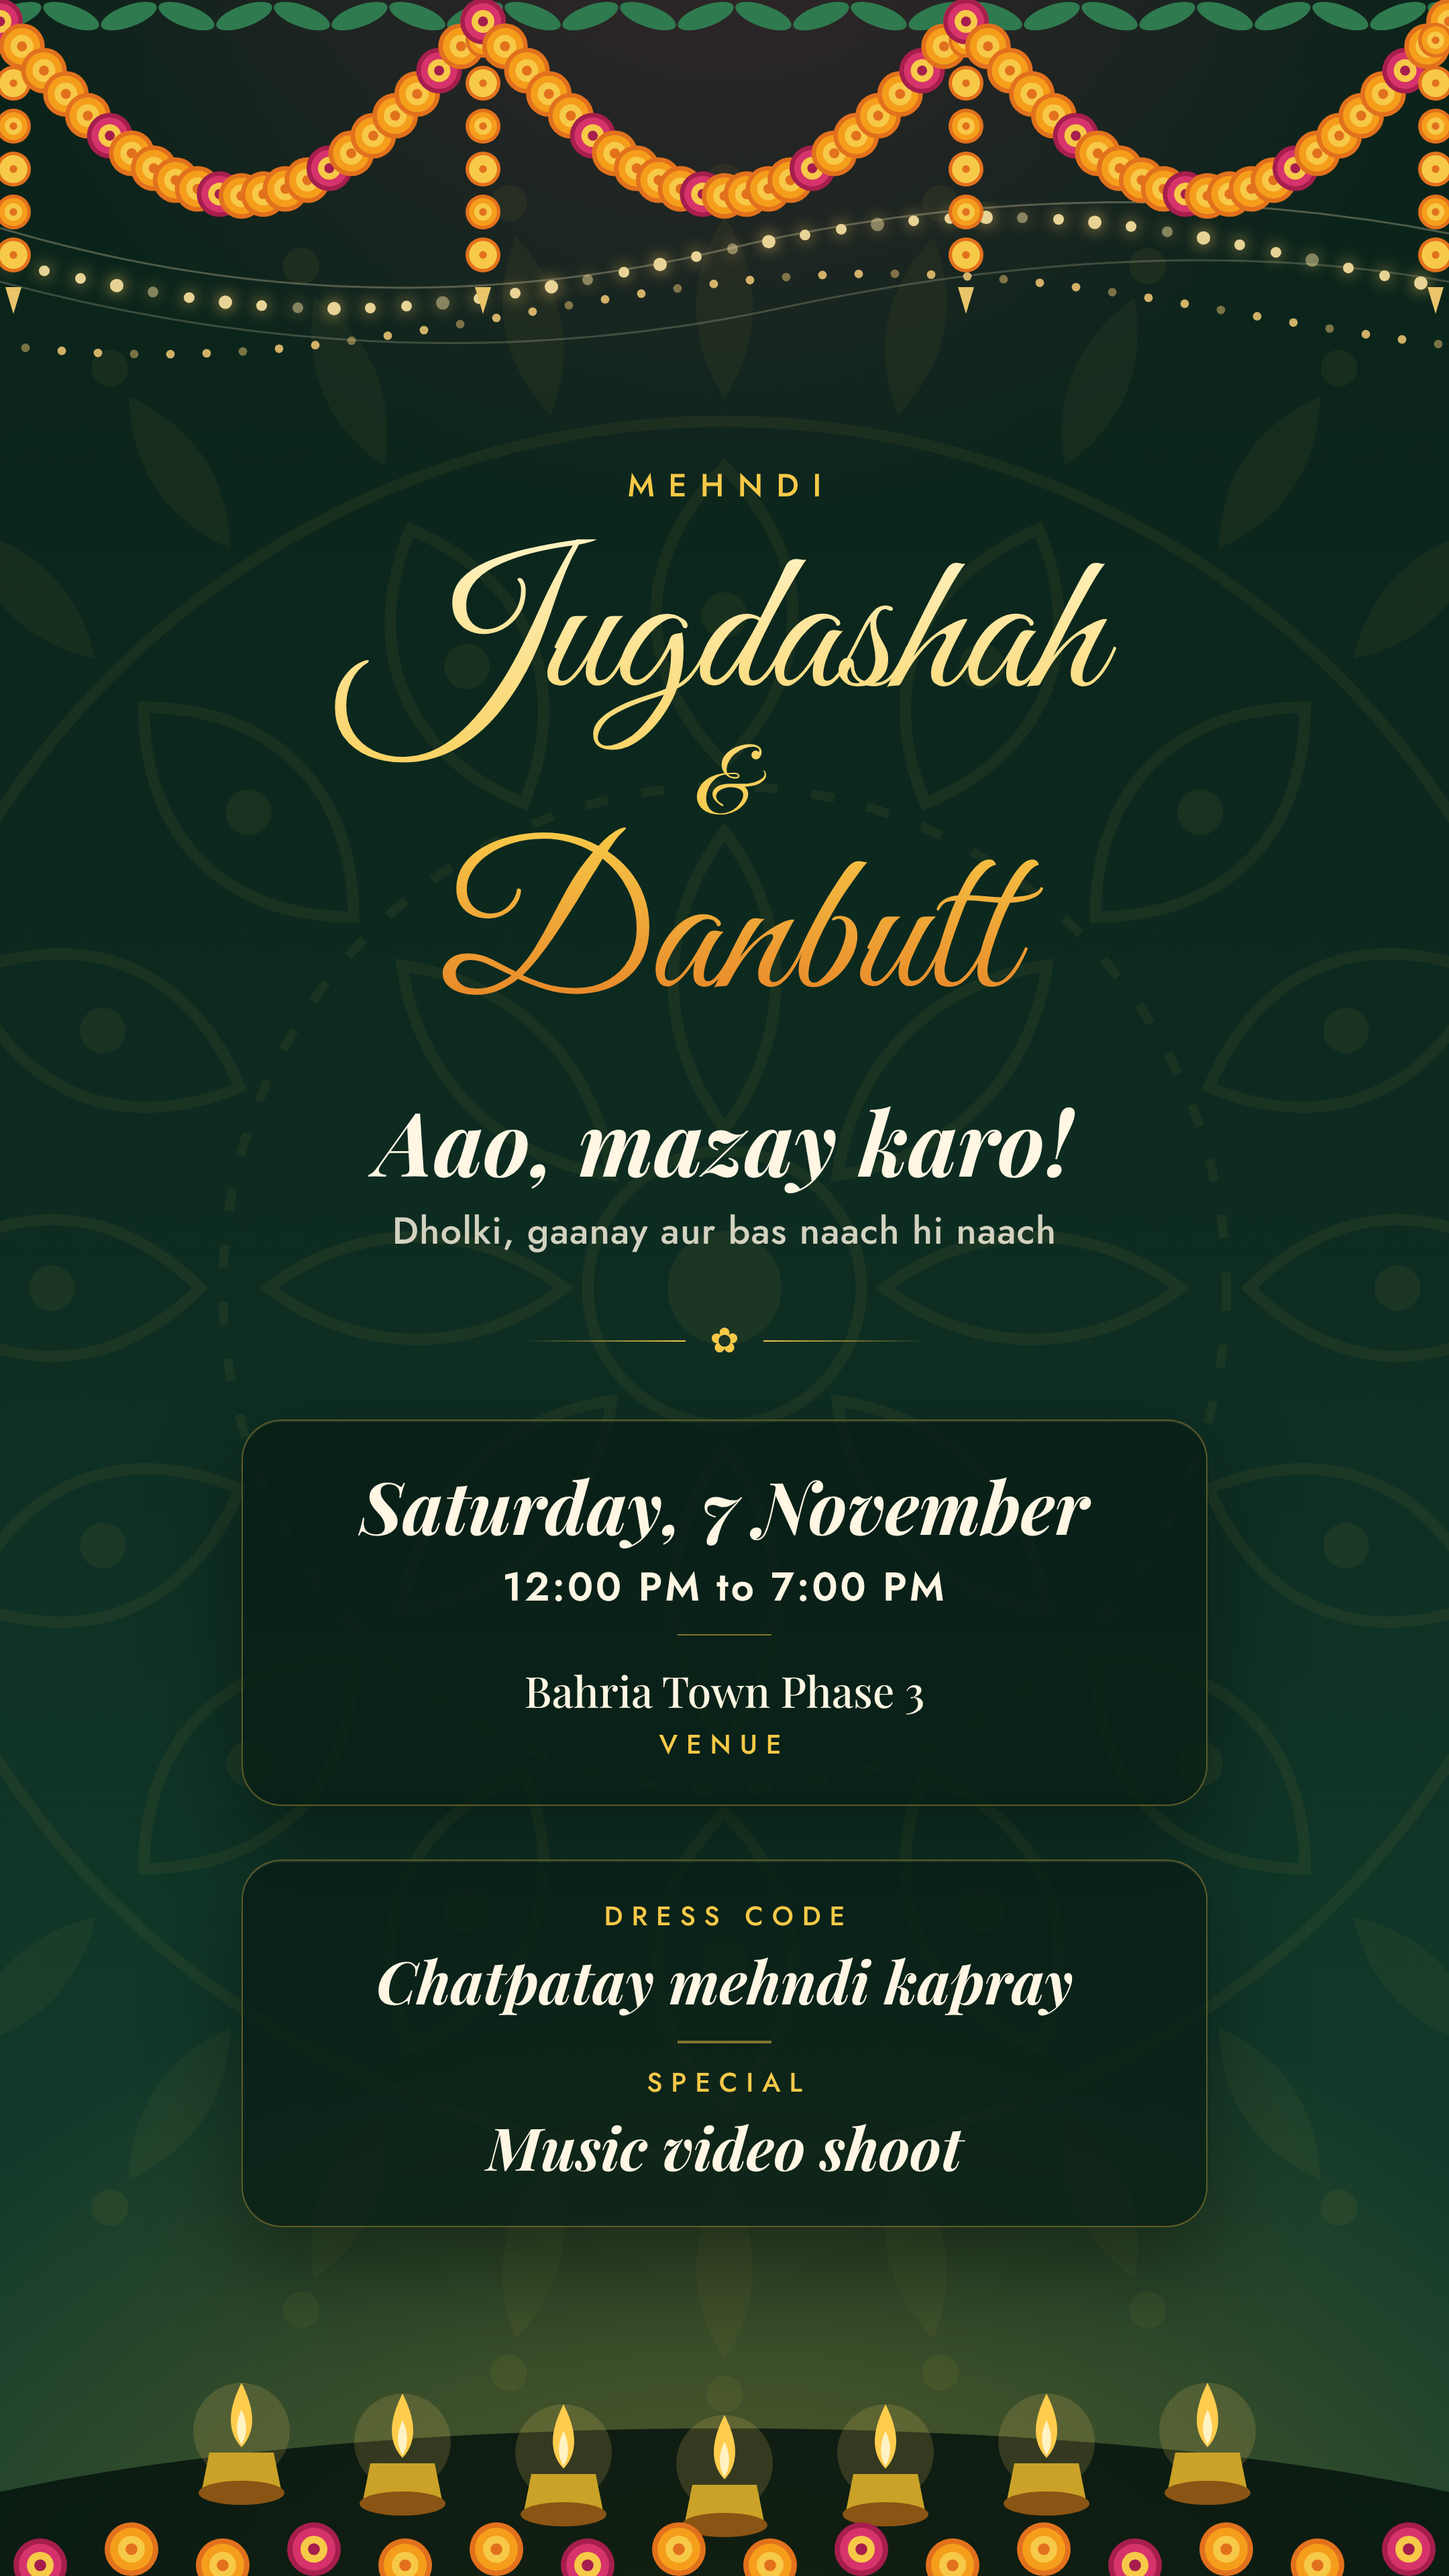
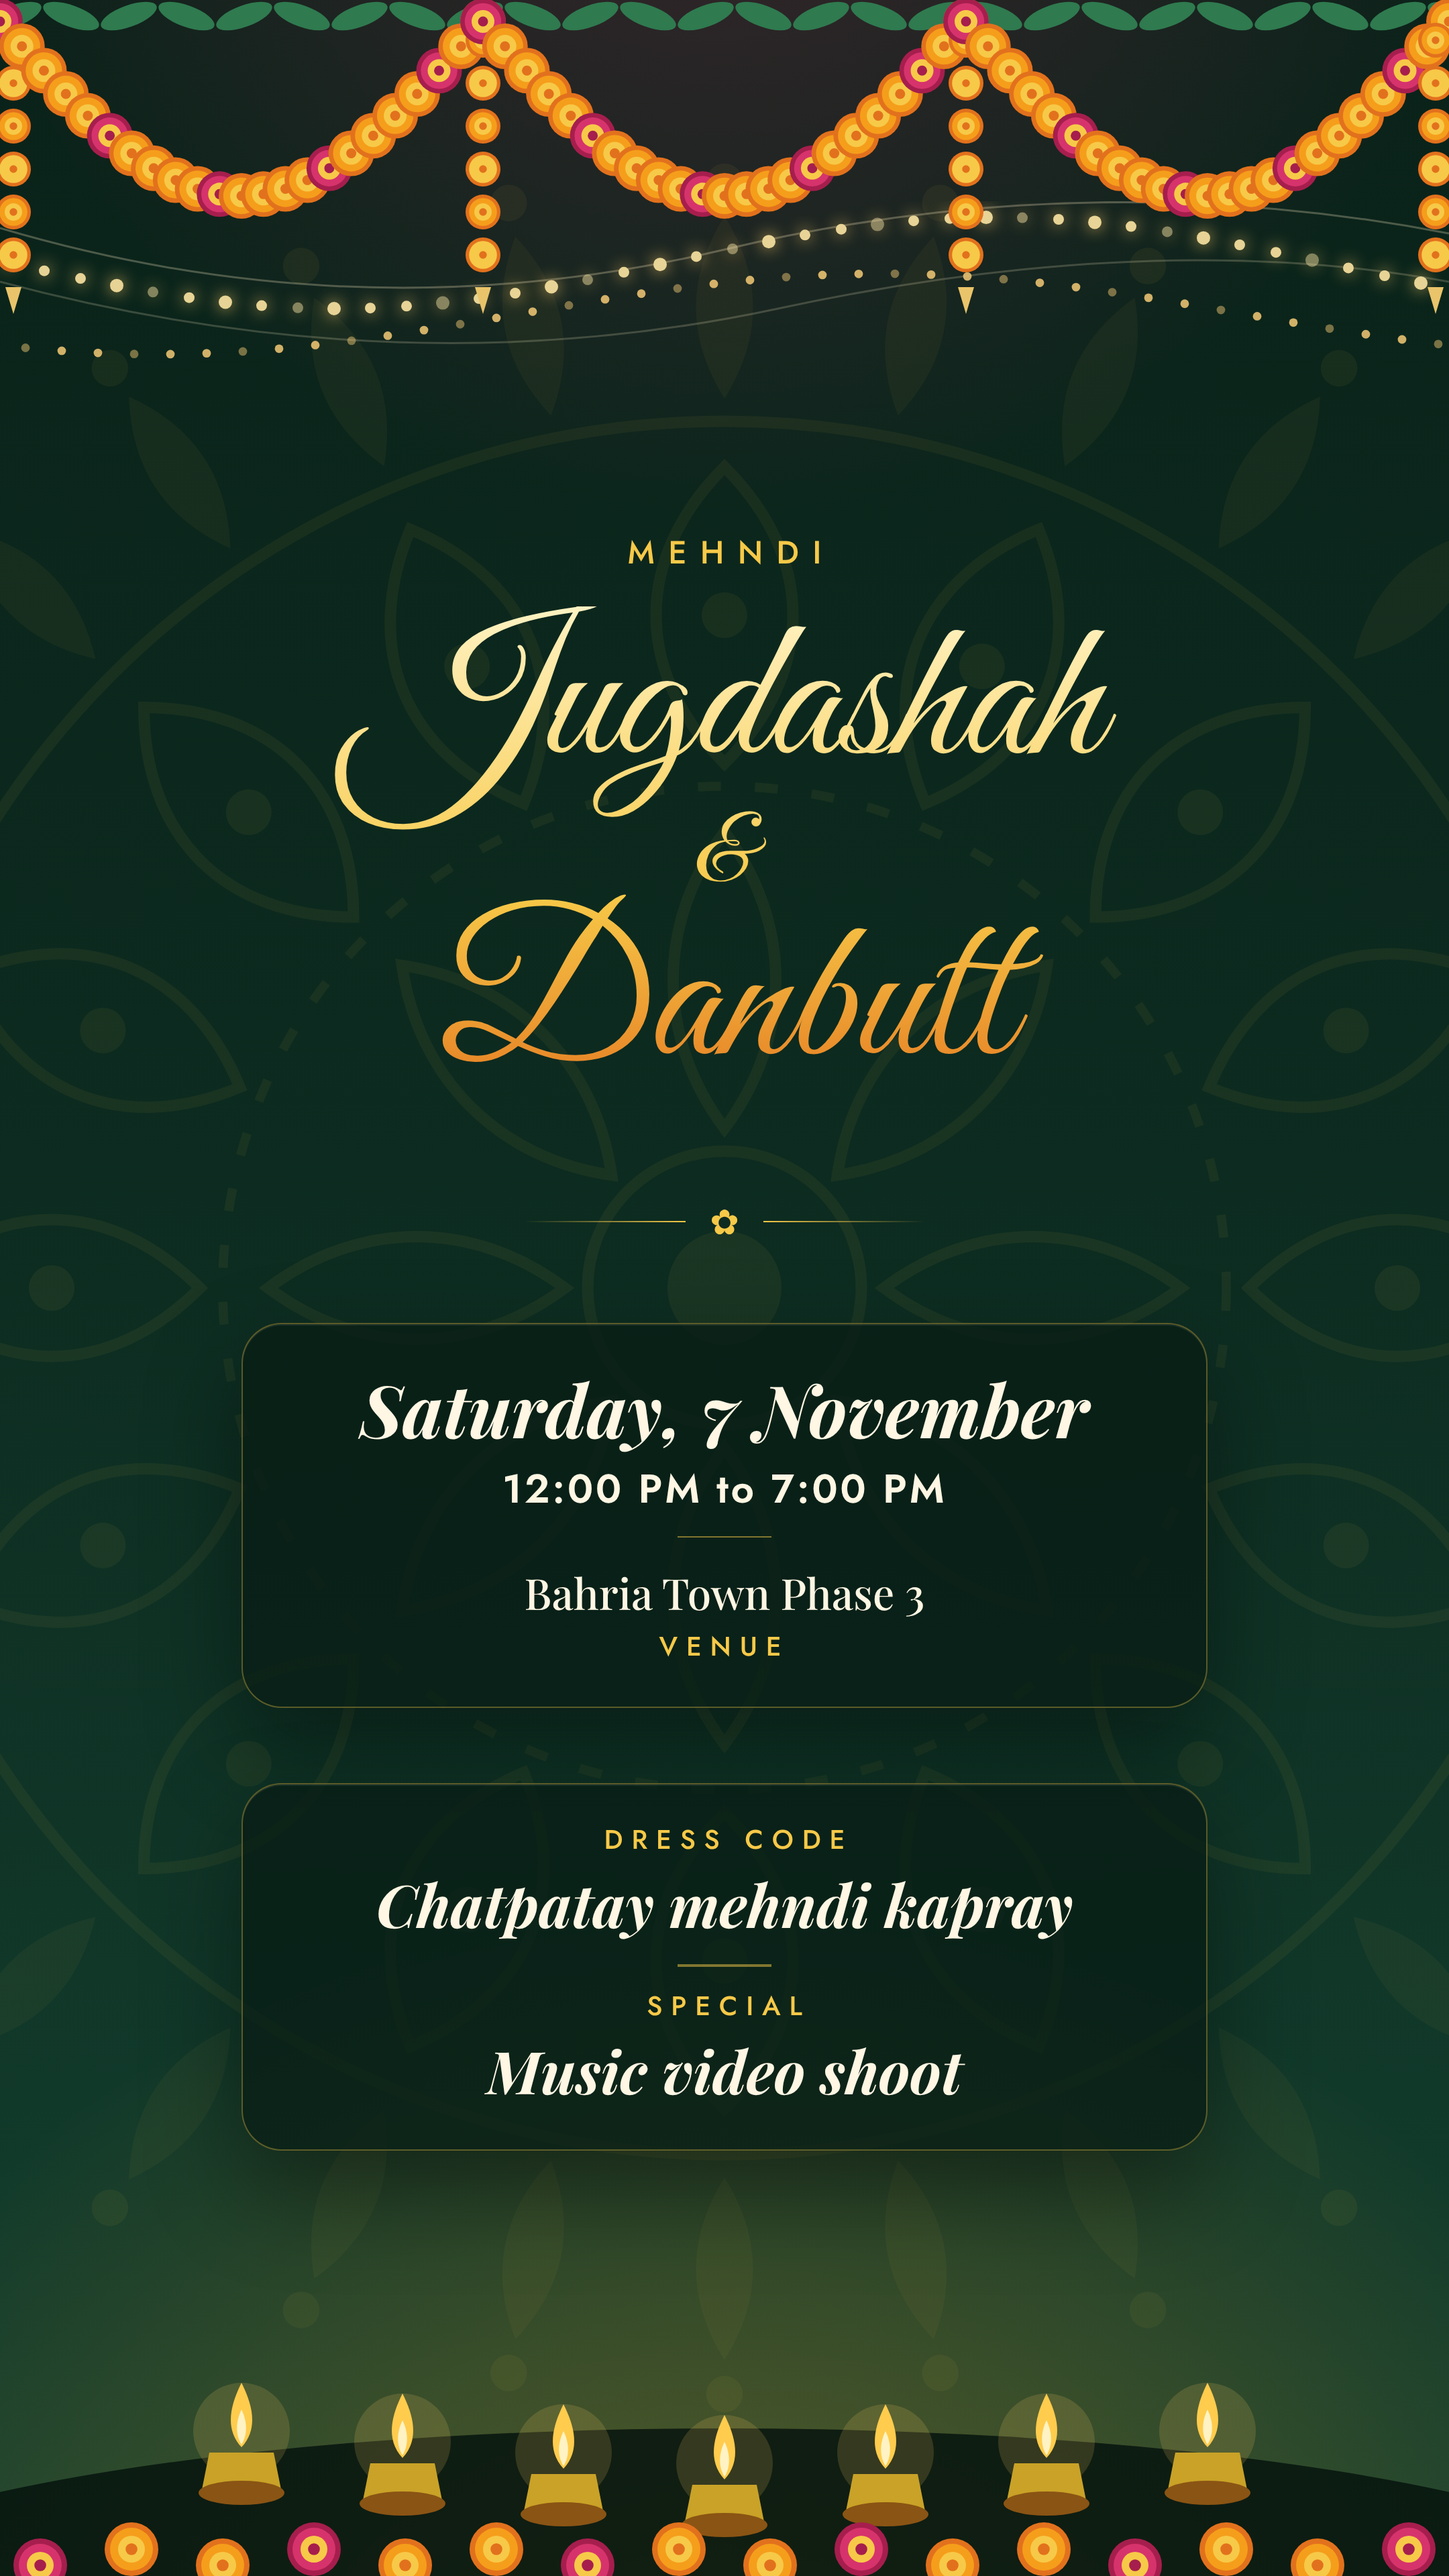
Mehndi card: remove tagline lines
Claude-Session: https://claude.ai/code/session_018j6fmf3av8Vpw3jxddo5Nc

diff --git a/card.html b/card.html
@@ -17,7 +17,7 @@ html,body{width:1080px;height:1920px;background:var(--green-900)}
 .garland{position:absolute;top:0;left:0;width:1080px;height:250px}
 .lights{position:absolute;top:150px;left:0;width:1080px;height:150px;opacity:.9}
 .scene{position:absolute;left:0;bottom:0;width:1080px;height:330px}
-.content{position:absolute;left:0;right:0;top:350px;display:flex;flex-direction:column;align-items:center}
+.content{position:absolute;left:0;right:0;top:400px;display:flex;flex-direction:column;align-items:center}
 .arabic{font:700 50px/1.4 "Amiri",serif;color:var(--gold);direction:rtl}
 .eyebrow{margin-top:0;font:500 24px/1 "Jost",sans-serif;letter-spacing:.42em;padding-left:.42em;text-transform:uppercase;color:var(--turmeric)}
 .names{margin-top:28px;font:400 150px/1 "Great Vibes",cursive;background:linear-gradient(180deg,#fff2c2,#f7c948 55%,#e2711d);-webkit-background-clip:text;background-clip:text;color:transparent;padding:0 30px 16px}
@@ -32,7 +32,7 @@ html,body{width:1080px;height:1920px;background:var(--green-900)}
 .venue{font:500 32px/1.3 "Playfair Display",serif}
 .tag{margin-top:22px;font:italic 700 66px/1.1 "Playfair Display",serif;color:var(--cream)}
 .tag2{margin-top:14px;font:500 28px/1.3 "Jost",sans-serif;color:rgba(255,246,227,.82);letter-spacing:.02em}
-.glass+.glass{margin-top:40px}
+.glass+.glass{margin-top:56px}
 .row .k{font:500 20px/1 "Jost",sans-serif;letter-spacing:.32em;padding-left:.32em;text-transform:uppercase;color:var(--turmeric)}
 .row .v{margin-top:12px;font:italic 700 44px/1.15 "Playfair Display",serif}
 .venue small{display:block;margin-top:10px;font:500 20px/1 "Jost",sans-serif;letter-spacing:.32em;text-transform:uppercase;color:var(--turmeric)}
@@ -48,9 +48,7 @@ html,body{width:1080px;height:1920px;background:var(--green-900)}
   <div class="content">
     <div class="eyebrow">Mehndi</div>
     <div class="names">Jugdashah<span class="amp">&amp;</span>Danbutt</div>
-    <div class="tag">Aao, mazay karo!</div>
-    <div class="tag2">Dholki, gaanay aur bas naach hi naach</div>
-    <div class="divider" style="margin:44px auto 40px">✿</div>
+    <div class="divider" style="margin:50px auto 56px">✿</div>
     <div class="glass">
       <div class="date">Saturday, 7 November</div>
       <div class="time">12:00 PM to 7:00 PM</div>
